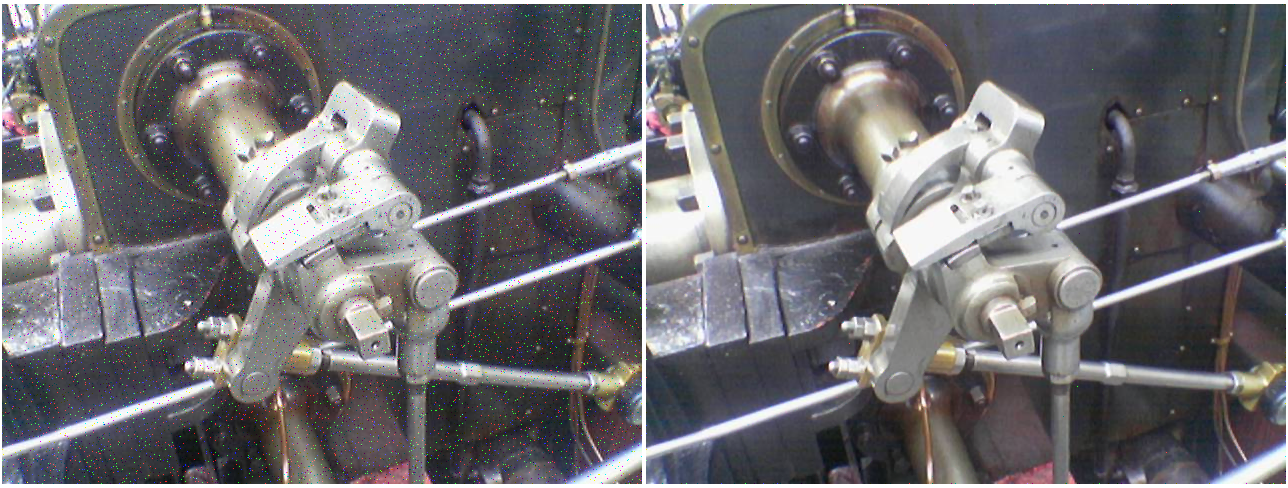
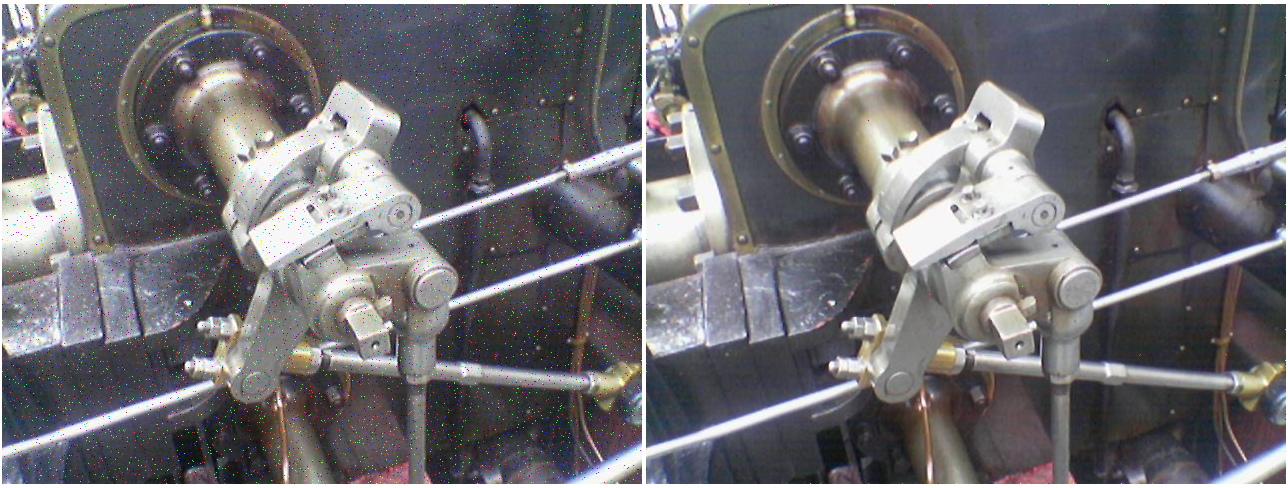
Add support for OpenMP < 5.1 to omp_tri_gemv.c

diff --git a/omp-tri-gemv.c b/omp-tri-gemv.c
@@ -22,7 +22,7 @@
 /***
 % Upper-triangular Matrix-Vector multiply
 % [Moreno Marzolla](https://www.unibo.it/sitoweb/moreno.marzolla)
-% Last updated: 2026-05-08
+% Last updated: 2026-06-29
 
 The function `tri_gemv(A, b, c)` computes $c = Ab$, where $A$ is a $n
 \times n$ upper triangular matrix and $b$ a vector. The goal of this
@@ -96,7 +96,18 @@ void tri_gemv3(const float *A, const float *b, float *c, int n)
 #pragma omp for
         for (int i=0; i<n; i++)
             c[i] = 0.0f;
+#if _OPENMP < 202011
+        /* OpenMP < 5.1. It is not possible to collapse both loops, so
+           we parallelize the outer loop only.  The schedule() clause
+           tries to address load imbalancing caused by the fact that
+           for each iteration of the outer loop the work decreases.
+           The optimal chunksize should be empirically determined. */
+#pragma omp for reduction(+:c[:n]) schedule(dynamic,16)
+#else
+        /* OpenMP >= 5.1; collapse both loops, to address load
+           imbalance. */
 #pragma omp for collapse(2) reduction(+:c[:n])
+#endif
         for (int i=0; i<n; i++) {
             for (int j=i; j<n; j++) {
                 c[i] += A[i*n + j] * b[j];